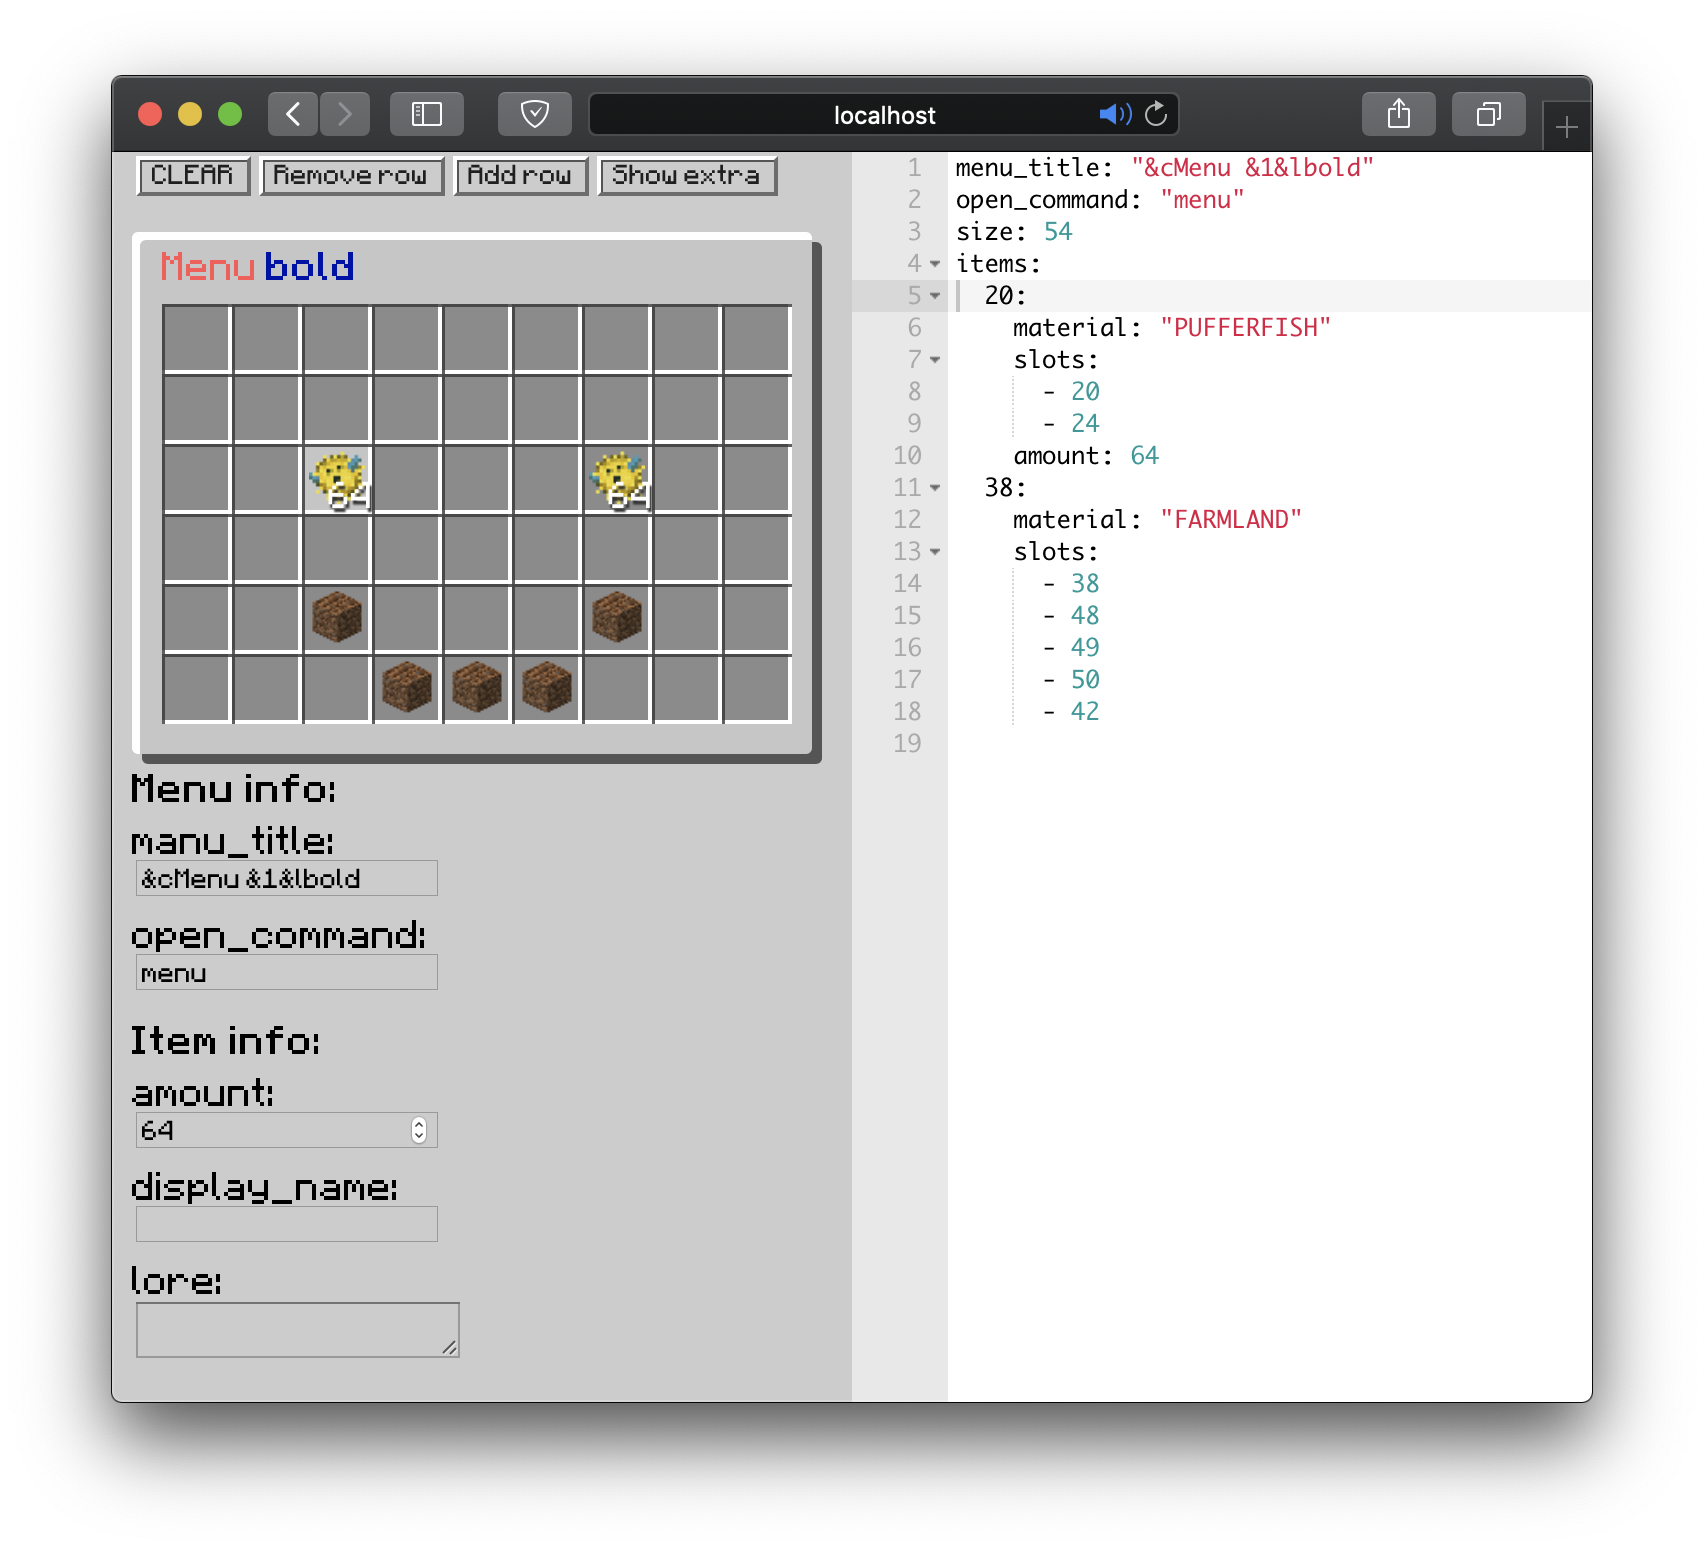
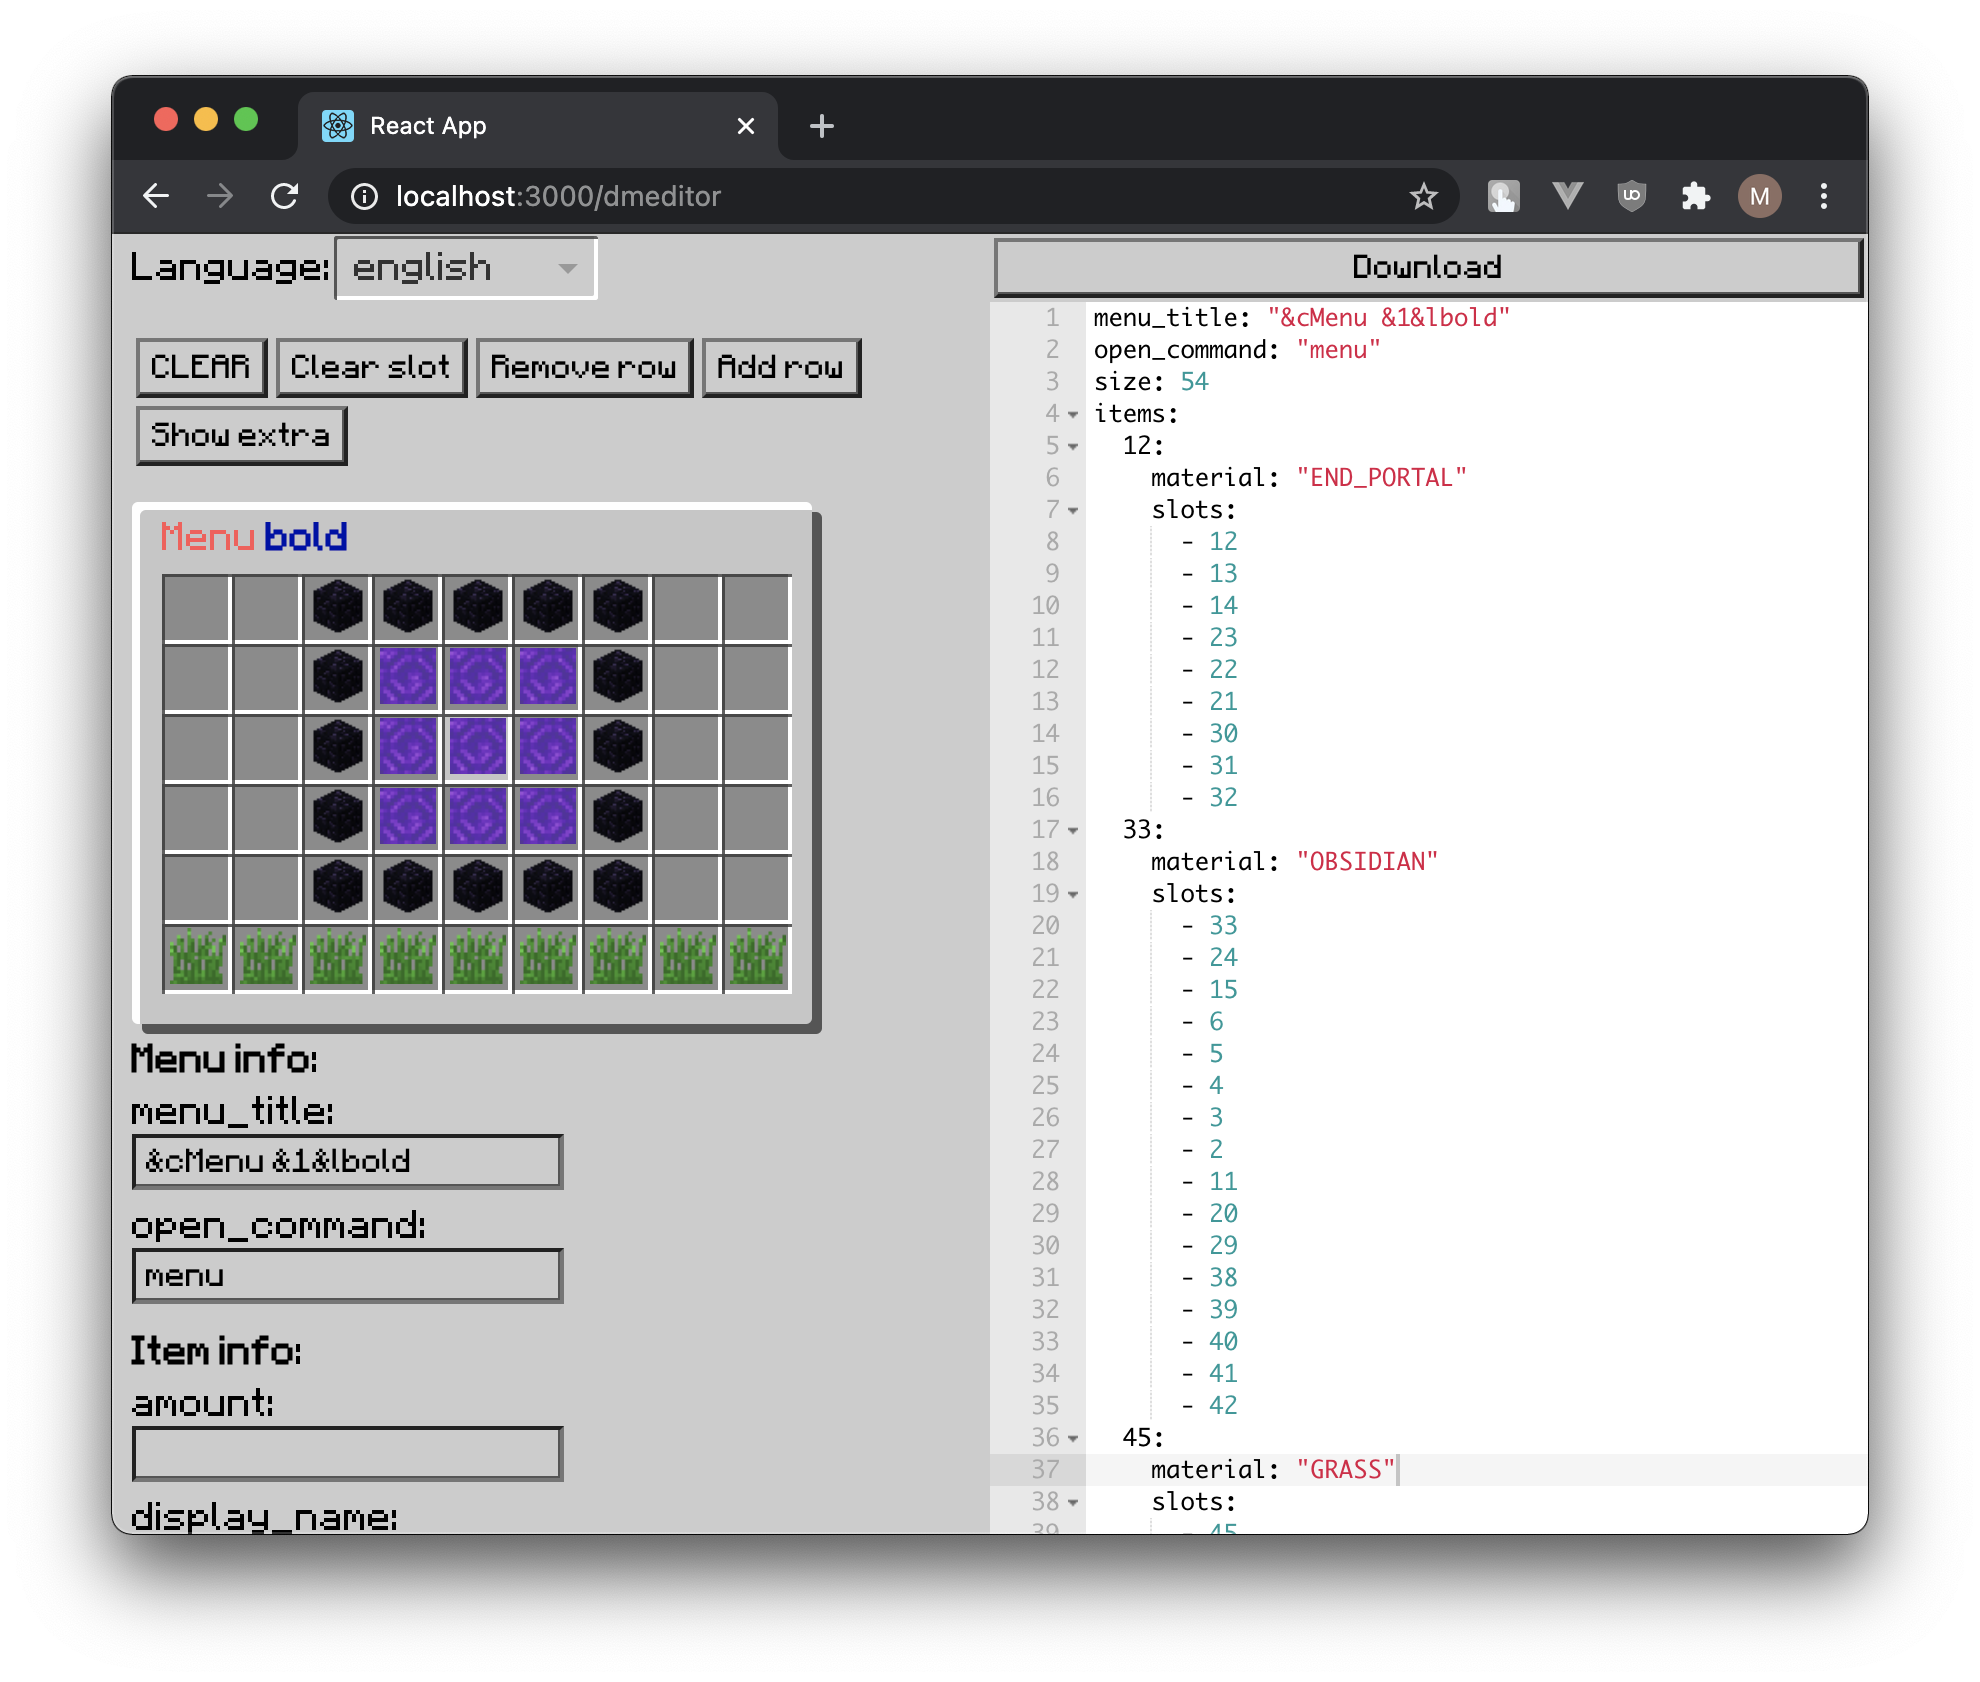
Download btn, readme update

diff --git a/src/App.css b/src/App.css
@@ -2,7 +2,7 @@
 
 @font-face {
     font-family: "Minecraft";
-    src: url('/minecraft-font.ttf');
+    src: url('/dmeditor/minecraft-font.ttf');
   }
 
 html {
@@ -27,7 +27,7 @@ body {
 #output {
   float: right;
   width: 50vw;
-  height: 100vh;
+  height: 95vh;
 }
 
 #itemsSearch {
@@ -53,6 +53,8 @@ input, textarea, button {
   font-family: 'Minecraft';
   background-color: #ccc;
   box-shadow: inset -1px -1px 0px #555555;
+  -webkit-box-shadow: inset -1px -1px 0px #555555;
+  -webkit-appearance: none;
 }
 
 input, textarea {
@@ -69,12 +71,18 @@ button {
   flex-shrink: 2;
 }
 
+.download {
+  width: -webkit-fill-available;
+}
+
 .inventory {
   width: 335px;
   height: fit-content;
   background: #c6c6c6;
   border-radius: 3px;
   box-shadow: 5px 5px 0px #555555, inset 4px 4px 0px #fefefe;
+  -webkit-box-shadow: 5px 5px 0px #555555, inset 4px 4px 0px #fefefe;
+  -webkit-appearance: none;
   padding-top: 5px;
   padding-left: 5px;
   padding-bottom: 5px;
@@ -107,7 +115,10 @@ button {
   justify-content: center;
   background: #8b8b8b;
   box-shadow: inset 1.5px 1.5px 0px rgba(55, 55, 55, 0.8),
+  inset -2px -2px 0px #ffffff;
+  -webkit-box-shadow: inset 1.5px 1.5px 0px rgba(55, 55, 55, 0.8),
     inset -2px -2px 0px #ffffff;
+  -webkit-appearance: none;
 }
 
 .slotSpace {
@@ -170,6 +181,9 @@ a {
 .Dropdown-control {
   box-shadow: inset 1.5px 1.5px 0px rgba(55, 55, 55, 0.8),
     inset -2px -2px 0px #ffffff;
+  -webkit-box-shadow: inset 1.5px 1.5px 0px rgba(55, 55, 55, 0.8),
+    inset -2px -2px 0px #ffffff;
+  -webkit-appearance: none;
   border-radius: 3px;
   background-color: unset !important;
 }

diff --git a/src/inventory.js b/src/inventory.js
@@ -7,6 +7,7 @@ import AceEditor from 'react-ace';
 import YAML from 'json-to-pretty-yaml';
 import Modal from 'react-modal';
 import _LANG from './lang/english';
+import fileDownload from 'js-file-download';
 
 import Dropdown from 'react-dropdown';
 import 'react-dropdown/style.css';
@@ -376,6 +377,9 @@ export class Inventory extends Component {
       open_command: e.target.value
     })
   }
+  downloadYaml = () => {
+    fileDownload(YAML.stringify(this.computedItems()), 'menu.yml');
+  }
   clearSlot = () => {
     let ar = this.state.items;
 
@@ -477,6 +481,7 @@ export class Inventory extends Component {
     return(
       <div>
         <div id="output">
+          <button className="download" onClick={this.downloadYaml}>{LANG['button Download']}</button>
           <AceEditor
             mode="yaml"
             theme="github"

diff --git a/README.md b/README.md
@@ -4,7 +4,11 @@ Visual editor for [DeluxeMenus](https://wiki.helpch.at/clips-plugins/deluxemenus
 
 #### Demo: https://tabmk.github.io/dmeditor/
 
+---
 <p align="center">
+  <b>Rate</b>
+  <br>
+  <img src="https://img.shields.io/github/stars/tabmk/dmeditor?style=social">
   <img src="img/1.png" />
   <img src="img/2.png" />
 </p>
@@ -31,13 +35,18 @@ npm start
 - __auto-save__ you can reload page any time w/o losing data, all saved in localStorage
 - __visual edit__ you can even search items by name (items provided by [minecraft-items](https://github.com/pandapaul/minecraft-items). __TODO__: add support of [minecraft-blocks-render](https://github.com/TABmk/minecraft-blocks-render) data)
 - __All actual__ fields of config
-- __YML__ export from right-side window (TODO add file export)
+- __YML__ export
 - __Pre-configured__ items select. It will change "slot" field to "slots" for using same info for those items
 - __Preview__ even with minecraft color styled title
 - __Language selector__
 
 ---
 
+### New features
+
+You can request new features by [open issue](https://github.com/TABmk/dmeditor/issues/new) (Added label "feature wanted" for this)
+
+---
 ### Contributing
 
 ##### Adding new language
@@ -58,12 +67,14 @@ npm start
 ```
 {
   name: LANG['your new field'],
+  value: 'your new field',
   extra: Boolean,
   type: String,
   tagName: String
 }
 ```
 - name - String from lang file
+- value - value to be added in yaml
 - extra - true = hide field by default
 - type - number | checkbox | text
 - tagName - input | textarea
